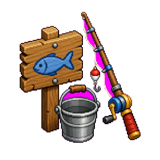
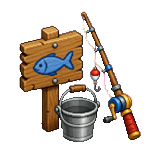
2회차 리뷰 반영 — 기본값·일대기 눈금·아파트 출산·커밋 비용
리뷰어 5인 2회차. 페이싱 축을 새로 넣어 물었고, 전원이 "세계는 나아졌는데 첫인상은
그대로"라고 답했다. 지적을 순서대로 친다.

■ §23.43 기본값 세 줄이 첫인상을 망치고 있었다 (신규 플레이어 리뷰)
실측: 인구 160 마을을 ×1·`전부` 필터로 켜면 **초당 11.5줄**이 흐른다. 피드 상한이 80줄이라
**7초마다 사이드바가 통째로 갈린다.** 도망칠 곳인 `이야기` 필터는 92%가 "아는 사이가
되었습니다"였다. 잡음을 피해 온 사람에게 다른 잡음을 줬다.
시뮬레이션의 사건 밀도 자체는 나쁘지 않다(하루 2.85건) — 망가뜨린 건 시계가 아니라 화면이다.
  시작 배속 ×1 → ×4 · 시작 필터 전부 → 이야기 · '이야기'에서 acquaintance 티어 제외

■ §23.44 일대기의 나이 눈금이 9.1배 어긋나 있었다 (스토리 리뷰)
`TICKS_PER_YEAR = 1440 * 365`. 이 세계의 한 해는 40일이다 — 애초에 365를 박아 둔 게 틀렸고,
1년을 120→40일로 줄이면서 더 벌어졌다. yearsAgo가 늘 0으로 떨어져 **93세 사람의 90~93살
사건이 전부 "93살" 아래 깔렸다.** 일생을 보여주는 화면에서 시간이 통째로 빠져 있었다.
같은 리뷰가 잡은 나머지: `새 새 건물이 완공됐습니다`(PLACE_FALLBACK에 학교·대학·산업 시설
누락) · `university가 새로 문을 열었다` · `마을이 단계로 올라섰다`(payload 키 오독) ·
`지능이 60로 떨어졌다`(ro 헬퍼 미사용) · **`심84가 세상을 떠났습니다`** — 배치가 world.sims를
먼저 갈아 끼운 뒤 피드를 그려서, 이 게임에서 가장 무거운 한 줄에 이름 대신 id가 찍혔다.
payload에 name이 실려 있었다.

■ §23.45 아파트에서는 아이가 태어날 수 없었다
출산 게이트의 증축 여력 계산이 `- 2`로 **집의 기본 침대 수를 박아** 두고 있었다.
아파트는 기본 8개라 `min(0, 2) - (8 - 2) = -6` — 항상 막힌다. 실측 80일: 동거 부부 13쌍 중
출산 가능 3쌍. 143일 라이브 마을의 출생 **0건**이 여기서 나왔다.
종류별 기본 침대로 고쳤다. 실측: 80일 출생 0 → **1.3±0.5건**.

  ※ 함께 시도한 "이민이 아이 자리를 남긴다"(birthReserveBeds)는 **되돌렸다.**
    3시드 실측에서 출생은 그대로(1.3±1.2)인데 인구만 93.3 → 89로 깎였고, 예비 3에서는
    22까지 떨어졌다. 출생을 막던 건 이민이 아니라 아파트 계산이었다 — 짐작으로 넣은
    레버가 증상을 못 고치고 성장만 눌렀다.

■ §23.46 커밋이 루프 비용의 57%였다 (성능 리뷰)
- 백업 스냅샷 회전이 **16MB를 JS로 읽어 올렸다가 다시 바인딩**하고 있었다 → SQL 한 줄로.
  commitBatch 772ms → **494ms**.
[…]

diff --git a/client/main.js b/client/main.js
@@ -1249,7 +1249,12 @@ const PLACE_FALLBACK = {
   house: '집', apartment: '아파트', office: '직장', cafe: '카페', park: '공원', bar: '술집',
   library: '도서관', market: '시장', pond: '낚시터', hospital: '병원', city_hall: '시청',
   school: '학교', restaurant: '식당', gym: '헬스장', cinema: '영화관', mall: '쇼핑몰',
-  police_station: '파출소', fire_station: '소방서', train_station:'기차역',
+  police_station: '파출소', fire_station: '소방서', train_station: '기차역',
+  // §23.44 학교 3종·대학·산업 시설이 빠져 있었다. 그래서 "새 새 건물이 완공됐습니다"와
+  // 연대기의 "university가 새로 문을 열었다"가 나왔다 — undefined를 영문 id로 바꾼 것뿐이다.
+  primary_school: '초등학교', middle_school: '중학교', high_school: '고등학교',
+  university: '대학교', workshop: '공방', lab: '연구소', warehouse: '창고',
+  factory: '공장', pond: '낚시터',
 };
 // 해시로 고르면 카페 9곳에 이름 8개라 반드시 겹친다. 그래서 **같은 종류 안에서 몇 번째인가**로
 // 고른다 — 이름이 동나면 "2호점"이 붙는다. id 정렬이라 목록 순서가 바뀌어도 이름은 그대로다.
@@ -2794,8 +2799,11 @@ function eventText(e) {
     }
     case 'grew_up': return `🌱 ${ga(n)} ${e.payload.age}살이 되어 학교에 갑니다`;
     case 'bereaved': return `🕯 ${ga(n)} 가까운 사람을 떠나보냈습니다`;
-    case 'died': return `🕯 ${ga(n)} 세상을 떠났습니다`;
-    case 'emigrated': return `🧳 ${ga(n)} 마을을 떠났습니다`;
+    // §23.44 배치 핸들러가 world.sims를 먼저 갈아 끼운 뒤 피드를 그리므로, 떠난 사람은
+    // 이미 목록에 없어 simName이 'sim{id}'를 만든다. **이 게임에서 가장 무거운 한 줄에
+    // 사람 이름 대신 id가 찍혔다.** payload에 name이 실려 있으니 그걸 쓴다.
+    case 'died': return `🕯 ${ga(e.payload.name ?? n)} 세상을 떠났습니다`;
+    case 'emigrated': return `🧳 ${ga(e.payload.name ?? n)} 마을을 떠났습니다`;
     case 'married': return `💒 ${wa(n)} ${ga(simName(e.payload.withSimId))} 결혼했습니다! 🎉`;
     case 'broke_up': return `💔 ${wa(n)} ${ga(simName(e.payload.withSimId))} 헤어졌습니다…`;
     case 'new_year': return `🎆 해솔마을의 새해가 밝았습니다! (${e.payload.year}년차)`;
@@ -2868,9 +2876,15 @@ const FEED_MONEY = new Set([
   'insolvent', 'public_revenue_remitted', 'car_bought', 'mayor_stipend', 'public_works',
   'policy_changed', 'fish_caught', 'medical_visit_paid', 'child_allowance_paid',
 ]);
-let feedFilter = 'all';
+let feedFilter = 'story'; // §23.43 처음 보이는 화면은 '이야기'다 (index.html의 on과 짝)
 function feedPasses(e) {
   if (feedFilter === 'all') return true;
+  // §23.43 '아는 사이가 되었습니다'는 이야기가 아니라 바탕음이다. 실측: 라이브 마을에서
+  // relationship_changed 4,526건 중 4,183건(92%)이 acquaintance였고, 그래서 '이야기'
+  // 필터를 켜도 화면의 92%가 그 한 줄이었다. 잡음을 피해 온 사람에게 다른 잡음을 줬다.
+  // 친구가 되거나 사이가 틀어지는 것만 남긴다.
+  if (feedFilter === 'story' && e.type === 'relationship_changed'
+      && e.payload?.tier === 'acquaintance') return false;
   if (feedFilter === 'mine') return selectedSimId !== null && e.simId === selectedSimId;
   if (feedFilter === 'story') return FEED_STORY.has(e.type);
   if (feedFilter === 'money') return FEED_MONEY.has(e.type);
@@ -2975,7 +2989,10 @@ function pushFeed(e) {
 // §23.1 일대기. 같은 사건이라도 피드에서는 "방금 무슨 일이 있었나"이고, 여기서는
 // "이 사람이 어떻게 살아왔나"다. 그래서 문장을 따로 쓴다 — 시제도, 고르는 사건도 다르다.
 // 나이는 지금 나이에서 지난 햇수를 빼서 되짚는다 (한 해 = 1440틱 × 365).
-const TICKS_PER_YEAR = 1440 * 365;
+// §23.44 여기 365를 박아 둔 게 처음부터 틀렸다. 이 세계의 한 해는 society.yearDays이고
+// 지금은 40일이다 — 9.1배 어긋나 yearsAgo가 늘 0으로 떨어졌고, **일대기 전체가 나이 머리글
+// 하나 밑에 깔렸다**(93세 사람의 90~93살 사건이 전부 "93살"로). 세계에서 읽는다.
+const ticksPerYear = () => 1440 * (world?.logic?.society?.yearDays ?? 40);
 // 일대기는 **떠난 사람**을 자주 부른다 (사별·이별·옛 동료). 그 사람은 이미 world.sims에
 // 없으므로 simName이 'sim{id}'를 만들어 낸다. 없는 이름을 지어내느니 이름 없이 쓴다.
 function withName(id, withIt, without) {
@@ -3010,7 +3027,7 @@ function lifeLine(r, ctx) {
     case 'ability_changed': {
       // 나이가 들면 깎이기도 한다 — 사실과 반대로 쓰면 안 된다.
       const nm = ABIL_KO[p.ability] ?? p.ability;
-      if (p.from != null && p.value < p.from) return `${ga(nm)} ${p.value}로 떨어졌다`;
+      if (p.from != null && p.value < p.from) return `${ga(nm)} ${ro(String(p.value))} 떨어졌다`; // "60로" → "60으로"
       return `${ga(nm)} ${p.value}까지 늘었다`;
     }
     case 'died': return '세상을 떠났다';
@@ -3027,7 +3044,7 @@ function cityLine(r) {
   switch (r.type) {
     case 'festival': return '마을에 축제가 열렸다';
     case 'new_year': return '새해가 밝았다';
-    case 'city_promoted': return `마을이 ${p.tier ?? ''}단계로 올라섰다`;
+    case 'city_promoted': return p.nameKo ? `${ro('해솔' + p.nameKo)} 올라섰다` : '마을이 한 단계 올라섰다';
     case 'station_unlocked': return '역이 들어섰다';
     case 'election': {
       // 당선자는 표가 가장 많은 후보다 — payload에 winner가 따로 없다.
@@ -3387,7 +3404,7 @@ async function renderLifeLog(simId) {
     // 나이로 묶는다. 지금 나이에서 지난 햇수를 빼면 그때 몇 살이었는지가 나온다.
     let html = ''; let lastAge = null;
     for (const { r, text } of rows) {
-      const yearsAgo = Math.floor((d.nowTick - r.tick) / TICKS_PER_YEAR);
+      const yearsAgo = Math.floor((d.nowTick - r.tick) / ticksPerYear());
       const age = d.age != null ? Math.max(0, d.age - yearsAgo) : null;
       const head = age != null ? `${age}살` : `${Math.floor(r.tick / 1440)}일`;
       if (head !== lastAge) { html += `<div class="yr">${head}</div>`; lastAge = head; }

diff --git a/server/engine.js b/server/engine.js
@@ -16,7 +16,12 @@ const BATCH_TICKS = TICKS_PER_DAY; // 따라잡기 배치 = 게임 1일
 // 해당하고, 그 위는 **엔진이 못 낸다** — 인구 249 세계 실측 상한이 47.6 tick/s다.
 // 낼 수 없는 배속을 버튼에 두면 사용자는 ×48을 누르고 ×24를 받는다(성능 리뷰가 잡은 결함).
 export const MAX_SPEED = 20;
-const LIVE_COMMIT_TICKS = 30;      // §17.0: 라이브 커밋 주기 (미커밋 유실은 스냅샷+입력 재생으로 복구)
+// §23.46 30 → 120. 커밋 한 번이 인구 249에서 494ms인데 30틱마다 하면 커밋만으로
+// 상한이 61 tick/s, 시뮬까지 합치면 38.8 tick/s다 — ×20(48)이 안 나온다.
+// 미커밋 구간은 스냅샷+내구 입력 재생으로 **결정적으로** 복구되므로(§17.0), 잃는 것은
+// 상태가 아니라 그 구간을 다시 계산하는 시간뿐이다. 플레이어 입력이 들어오면 그 자리에서
+// 즉시 커밋하는 규칙은 그대로다(pendingApplied.length > 0).
+const LIVE_COMMIT_TICKS = 120;     // §17.0: 라이브 커밋 주기 (미커밋 유실은 스냅샷+입력 재생으로 복구)
 
 export class Engine {
   constructor(storage, { seed, now = () => Date.now() }) {
@@ -27,7 +32,13 @@ export class Engine {
     this.epochUtcMs = loaded.epochUtcMs;
     // §22.11 배속은 epoch와 한 쌍이다 — 저장된 값으로 복원하지 않으면 ×48 기준
     // epoch에 ×1로 붙어 rawTarget이 현재 틱 아래로 떨어지고 세계가 멈춘다.
-    this.speed = loaded.speed ?? 1;
+    // §23.43 처음 켰을 때의 배속을 ×4로. 신규 플레이어 리뷰 실측: ×1·기본 필터로 시작하면
+    // 첫 5분에 큰 사건이 **0건**이고 행동 로그만 148줄 흐른다. 시뮬레이션의 사건 밀도 자체는
+    // 나쁘지 않다(최근 20일 하루 2.85건) — ×4면 분당 1.1건으로 관람에 적정하다.
+    // 이어서 켜는 세계는 저장된 배속을 그대로 쓴다.
+    // §23.46 클램프가 없어서 옛 세이브의 speed=48이 그대로 복원됐다 — UI에 없는 배속으로
+    // 96 tick/s를 요구하며 돌아간다(성능 리뷰가 아카이브 세이브에서 발견).
+    this.speed = Math.max(1, Math.min(MAX_SPEED, loaded.speed ?? 4));
     this.createdNow = loaded.created === true; // §22.7 이번 실행에서 새 마을을 만들었는가
     storage.retargetStaleInputs(this.world.worldTick, now());
     storage.pruneEvents(this.world.worldTick);

diff --git a/db/storage.js b/db/storage.js
@@ -136,8 +136,12 @@ export class Storage {
   // 배치 커밋: 스냅샷 회전 + events + inputs.applied + meta 원자 커밋 (PLAN §4)
   commitBatch({ world, events, appliedInputIds, epochUtcMs }) {
     const tx = this.db.transaction(() => {
-      const cur = this.db.prepare('SELECT tick, state FROM snapshot WHERE id = 1').get();
-      this.db.prepare('INSERT OR REPLACE INTO snapshot(id, tick, state) VALUES (2, ?, ?)').run(cur.tick, cur.state);
+      // §23.46 이전 스냅샷을 백업(id=2)으로 돌리는 데 **16MB를 JS로 읽어 올렸다가 다시
+      // 바인딩**하고 있었다. 성능 리뷰 실측: 커밋 772ms vs 시뮬 591ms — 루프 비용의 57%가
+      // 커밋이고, 그것만으로 최고 배속 상한이 38.9 tick/s로 묶인다.
+      // SQL 안에서 옮기면 그 왕복이 통째로 사라진다. 백업 의미는 그대로다.
+      this.db.prepare(
+        'INSERT OR REPLACE INTO snapshot(id, tick, state) SELECT 2, tick, state FROM snapshot WHERE id = 1').run();
       this.db.prepare('INSERT OR REPLACE INTO snapshot(id, tick, state) VALUES (1, ?, ?)')
         .run(world.worldTick, serialize(world));
       const evIns = this.db.prepare(

diff --git a/sim/society.js b/sim/society.js
@@ -304,8 +304,11 @@ export function maybeChildren(world, t, day, emit) {
     const home = world.map.facilities.find((f) => f.id === pa.homeId);
     const residents = world.sims.filter((s2) => s2.homeId === pa.homeId).length;
     // 정원 여유 또는 증축 여력(예비 슬롯) 필요 — 아이가 생기면 부모의 build(§15.1)가 발동하는 창발
+    // §23.45 `- 2`는 집의 기본 침대 수를 박아 둔 것이라 아파트(기본 8)에서 −6이 나왔다.
+    // 이미 늘린 침대 = 지금 침대 − 그 시설의 기본 침대. 종류별 기본값을 쓴다.
+    const baseBeds = home.type === 'apartment' ? 8 : 2;
     const extraLeft = Math.min(home.extraBedSlots?.length ?? 0, world.logic.build.maxExtraBeds)
-      - (home.resources.length - 2);
+      - (home.resources.length - baseBeds);
     if (home.resources.length <= residents && extraLeft <= 0) continue; // (드로우 없음)
     const roll = rngInt(world.rngSim, 1000);
     if (roll >= F.childPermille) continue;

diff --git a/sim/logic.js b/sim/logic.js
@@ -4,7 +4,7 @@ import { fnv1a } from './serialize.js';
 
 // v1 등가 + Phase 2 기본값. logic/params.json의 초기 내용이기도 하다.
 export const DEFAULT_LOGIC = {
-  logicSchemaVersion: 95, // Bounded mood shocks and expiring recovery offsets.
+  logicSchemaVersion: 96, // 기분 충격 상한 + §23.45 아파트 증축 계산
   founding: { petitionDays: 3, minSettlers: 2 },
   needsTiers: { fulfilledMin: 4000, deprivedMax: 1000, promoteTicks: 7200,
     demoteTicks: 720, cultureDecay: 1, cultureFun: 2000 },

diff --git a/client/index.html b/client/index.html
@@ -189,8 +189,8 @@
       <h2>이벤트</h2>
       <!-- §23.19 피드 필터 — 이백 명분의 사건이 쏟아지면 이야기가 묻힌다 -->
       <div id="feed-filter">
-        <button data-f="all" class="on">전부</button>
-        <button data-f="story">이야기</button>
+        <button data-f="all">전부</button>
+        <button data-f="story" class="on">이야기</button>
         <button data-f="money">살림</button>
         <button data-f="mine">이 사람</button>
       </div>
